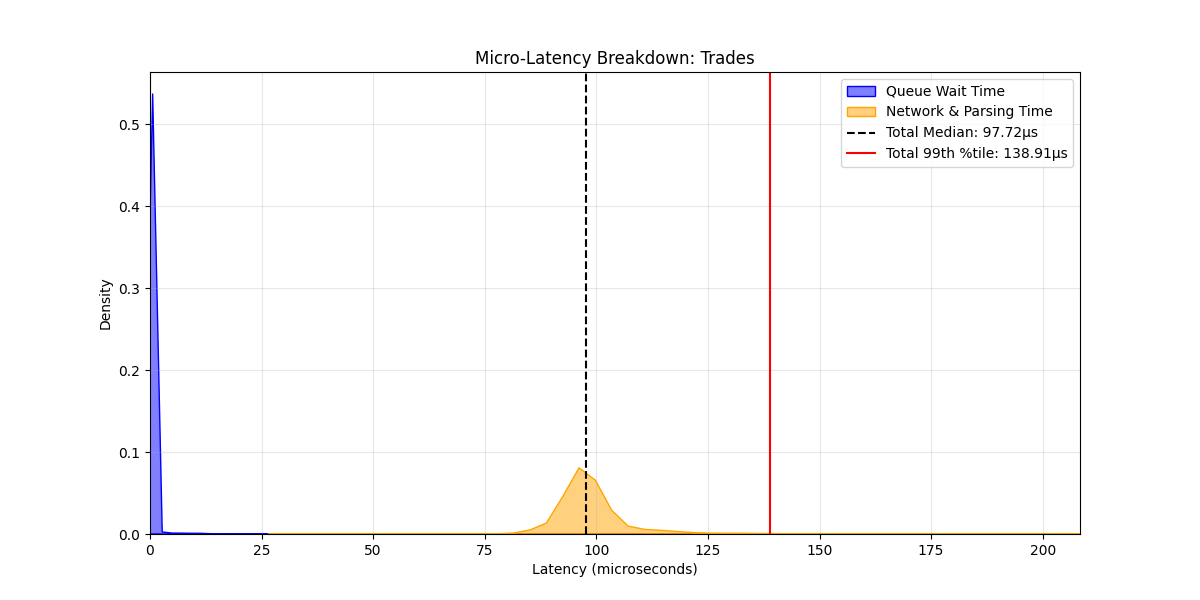
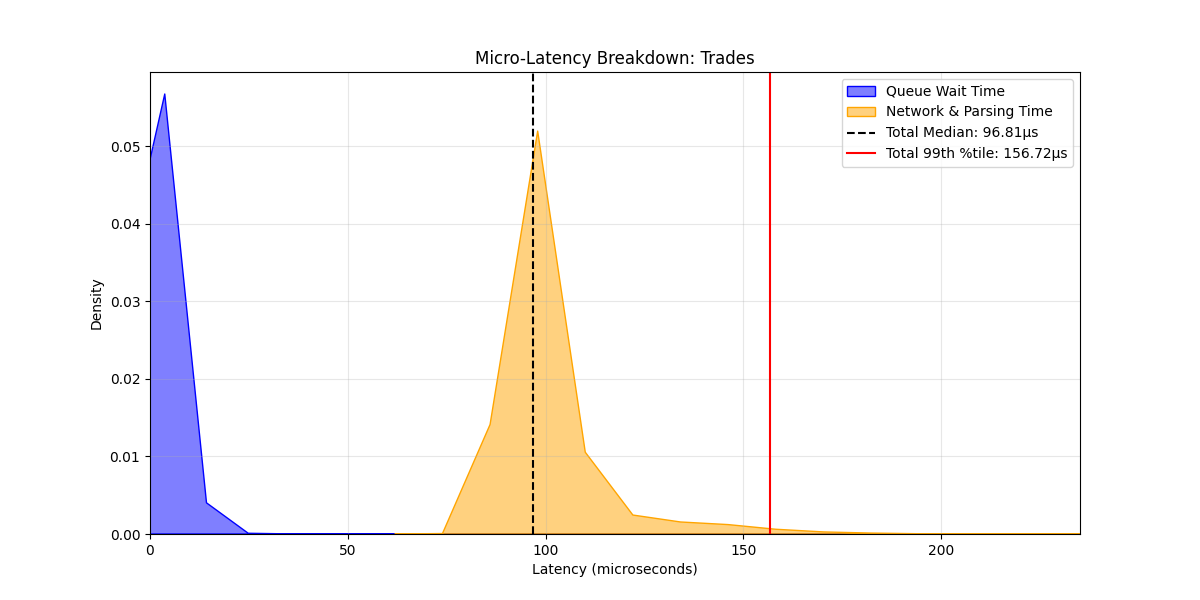
Added network and throughput benchmark capabilities

diff --git a/python/plot_throughput.py b/python/plot_throughput.py
@@ -1,0 +1,111 @@
+import os
+import subprocess
+import pandas as pd
+import matplotlib.pyplot as plt
+import seaborn as sns
+import matplotlib.ticker as ticker
+
+EXECUTABLE_PATH = "../cmake-build-release-wsl/main_simulate"
+DATA_DIR = "../data"
+SYMBOLS_FILE = "../data/tickers_WIN32.txt"
+
+TARGET_RATES = [100_000, 500_000, 1_000_000, 1_500_000, 2_000_000, 2_500_000, 3_000_000]
+DURATION = 5
+
+def run_throughput_test(transport: str, rate: int) -> int:
+    print(f"Testing {transport.upper()} at {rate:,} msgs/sec...")
+    cmd = [
+        EXECUTABLE_PATH,
+        "--underlying", "custom",
+        "--queue", "spin",
+        "--size", "65536",
+        "--transport", transport,
+        "--rate", str(rate),
+        "--duration", str(DURATION),
+        "--symbols", SYMBOLS_FILE,
+        "--out", DATA_DIR
+    ]
+
+    try:
+        subprocess.run(cmd, capture_output=True, text=True, check=True)
+    except subprocess.CalledProcessError as e:
+        print(f"  -> Crash/Error on {transport} at {rate}: {e.stderr}")
+        return 0
+
+    total_received = 0
+
+    q_file = os.path.join(DATA_DIR, "quote_latencies.csv")
+    if os.path.exists(q_file):
+        total_received += sum(1 for line in open(q_file)) - 1
+
+    t_file = os.path.join(DATA_DIR, "trade_latencies.csv")
+    if os.path.exists(t_file):
+        total_received += sum(1 for line in open(t_file)) - 1
+
+    return total_received
+
+def main():
+    results = []
+
+    for transport in ['udp', 'zmq']:
+        for rate in TARGET_RATES:
+            received = run_throughput_test(transport, rate)
+            achieved_rate = received / DURATION
+
+            results.append({
+                'Transport': transport.upper(),
+                'Target Rate': rate,
+                'Achieved Rate': achieved_rate
+            })
+
+    df = pd.DataFrame(results)
+    print("\n--- Throughput Raw Data ---")
+    for index, row in df.iterrows():
+        print(f"Transport: {row['Transport']:<4} | Target: {row['Target Rate']:>9,} | Achieved: {row['Achieved Rate']:>9,.0f} msgs/sec")
+    print("---------------------------\n")
+
+    print("\n--- Throughput Results ---")
+    print(df.to_string(index=False))
+
+    sns.set_theme(style="whitegrid", context="talk")
+    fig, ax = plt.subplots(figsize=(12, 7))
+
+    max_rate = max(TARGET_RATES)
+    ax.plot([0, max_rate], [0, max_rate], color='black', linestyle='--', linewidth=2, label='Ideal (0% Drops/Stalls)', alpha=0.6)
+
+    sns.lineplot(
+        data=df,
+        x='Target Rate',
+        y='Achieved Rate',
+        hue='Transport',
+        style='Transport',
+        markers=['o', 's'],
+        dashes=False,
+        linewidth=3,
+        markersize=10,
+        palette=["#2ca02c", "#d62728"],
+        ax=ax
+    )
+
+    ax.set_title("Maximum Throughput Analysis: UDP vs ZeroMQ", pad=20, fontweight='bold')
+    ax.set_xlabel("Target Message Rate (msgs/sec)", fontweight='bold')
+    ax.set_ylabel("Achieved Delivery Rate (msgs/sec)", fontweight='bold')
+
+    formatter = ticker.FuncFormatter(lambda x, pos: f'{x*1e-6:.1f}M')
+    ax.xaxis.set_major_formatter(formatter)
+    ax.yaxis.set_major_formatter(formatter)
+
+    ax.set_xlim(left=0)
+    ax.set_ylim(bottom=0)
+
+    sns.despine()
+    ax.legend(title="Protocol", loc="upper left", frameon=True)
+
+    output_filename = "../plots/throughput_analysis.png"
+    plt.tight_layout()
+    plt.savefig(output_filename, dpi=300)
+    print(f"\nPlot saved successfully to {output_filename}")
+    plt.show()
+
+if __name__ == "__main__":
+    main()

diff --git a/python/plot_network.py b/python/plot_network.py
@@ -1,0 +1,107 @@
+import os
+import subprocess
+import pandas as pd
+import matplotlib.pyplot as plt
+import seaborn as sns
+from matplotlib.offsetbox import AnchoredText
+
+# --- Configuration ---
+EXECUTABLE_PATH = "../cmake-build-release-wsl/main_simulate"
+DATA_DIR = "../data"
+SYMBOLS_FILE = "../data/tickers_WIN32.txt"
+
+def run_benchmark(transport: str, rate: int = 50000, duration: int = 20) -> pd.DataFrame:
+    print(f"Executing Benchmark for Transport: {transport.upper()}...")
+    cmd = [
+        EXECUTABLE_PATH,
+        "--underlying", "custom",
+        "--queue", "spin",     
+        "--size", "4096",
+        "--transport", transport,
+        "--rate", str(rate),
+        "--duration", str(duration),
+        "--symbols", SYMBOLS_FILE,
+        "--out", DATA_DIR
+    ]
+
+    subprocess.run(cmd, capture_output=True, text=True, check=True)
+
+    q_file = os.path.join(DATA_DIR, "quote_latencies.csv")
+    df = pd.read_csv(q_file)
+
+    df['network_us'] = (df['network_ns'] / 1000.0).replace(0, 0.001)
+    df['Transport'] = transport.upper()
+    return df
+
+def main():
+    try:
+        df_udp = run_benchmark('udp')
+        df_zmq = run_benchmark('zmq')
+    except Exception as e:
+        print(f"Error running benchmarks: {e}")
+        return
+
+    df_all = pd.concat([df_udp, df_zmq], ignore_index=True)
+    stats = []
+    for transport in ['UDP', 'ZMQ']:
+        d = df_all[df_all['Transport'] == transport]['network_us']
+        stats.append(f"{transport} Network:")
+        stats.append(f"  Mean: {d.mean():.3f} µs")
+        stats.append(f"  Med:  {d.median():.3f} µs")
+        stats.append(f"  p99:  {d.quantile(0.99):.3f} µs")
+        stats.append(f"  Max:  {d.max():.3f} µs\n")
+    stats_text = "\n".join(stats)
+    print("\n--- Network Benchmark Results ---")
+    print(stats_text)
+
+    sns.set_theme(style="ticks", context="talk")
+    fig, ax = plt.subplots(figsize=(14, 7))
+
+    sns.histplot(
+        data=df_all,
+        x="network_us",
+        hue="Transport",
+        kde=True,
+        element="step",
+        log_scale=True,
+        stat="density",
+        common_norm=False,
+        alpha=0.15,
+        linewidth=2,
+        palette=["#2ca02c", "#d62728"],
+        ax=ax
+    )
+
+    sns.move_legend(ax, "upper left", bbox_to_anchor=(1.02, 1), title="Protocol", frameon=False)
+
+    p999 = df_all['network_us'].quantile(0.999)
+    min_val = df_all['network_us'].min() * 0.8
+    ax.set_xlim(min_val, p999 * 1.5)
+
+    ax.set_title("Network Latency: UDP Multicast vs. ZeroMQ TCP", pad=20, fontweight='bold')
+    ax.set_xlabel("Network Latency (Microseconds) - Log Scale", fontweight='bold')
+    ax.set_ylabel("Probability Density", fontweight='bold')
+
+    ax.grid(True, which="major", ls="-", alpha=0.3)
+    ax.grid(True, which="minor", ls=":", alpha=0.1)
+    sns.despine()
+
+    anchored_text = AnchoredText(
+        stats_text.strip(), loc='upper right',
+        prop=dict(family='monospace', size=10),
+        frameon=True
+    )
+    anchored_text.patch.set_boxstyle("round,pad=0.5,rounding_size=0.2")
+    anchored_text.patch.set_alpha(0.9)
+    anchored_text.patch.set_edgecolor('#cccccc')
+    ax.add_artist(anchored_text)
+
+    # 7. Save and Show
+    output_filename = "../plots/network_comparison_kde.png"
+    plt.tight_layout()
+    plt.savefig(output_filename, dpi=300, bbox_inches='tight')
+    print(f"Plot saved successfully to {output_filename}")
+    plt.show()
+
+if __name__ == "__main__":
+    main()

diff --git a/src/generator/BaseGenerator.h b/src/generator/BaseGenerator.h
@@ -48,30 +48,27 @@ protected:
 
 private:
     void generation_loop(const std::stop_token &stop_tok) {
-        auto previous_time = std::chrono::steady_clock::now();
+        auto next_time = std::chrono::high_resolution_clock::now();
 
         while (!stop_tok.stop_requested()) {
-            auto now = std::chrono::steady_clock::now();
+            auto now = std::chrono::high_resolution_clock::now();
 
-            if (auto elapsed = std::chrono::duration_cast<std::chrono::nanoseconds>(now - previous_time); elapsed >= interval_) {
-                
-                // CRTP Call: Get the next message from the derived specific strategy
+            if (now >= next_time) {
                 types::MarketDataMsg msg = static_cast<Derived*>(this)->generate_msg_impl();
 
-                // Stamp enqueue time centrally right before pushing
                 std::visit([](auto&& arg) {
                     arg.enqueue_timestamp = std::chrono::duration_cast<std::chrono::nanoseconds>(
-                        std::chrono::steady_clock::now().time_since_epoch()).count();
+                        std::chrono::high_resolution_clock::now().time_since_epoch()).count();
                 }, msg);
 
-                // Try to push, yielding if the queue is temporarily full
                 while (!stop_tok.stop_requested() && !queue_.push(msg)) {
-                    std::this_thread::yield();
                 }
-                
-                previous_time = now;
+
+                next_time += interval_;
             } else {
-                std::this_thread::sleep_for(interval_ - elapsed);
+                if (next_time - now > std::chrono::milliseconds(2)) {
+                    std::this_thread::sleep_for(std::chrono::milliseconds(1));
+                }
             }
         }
     }
